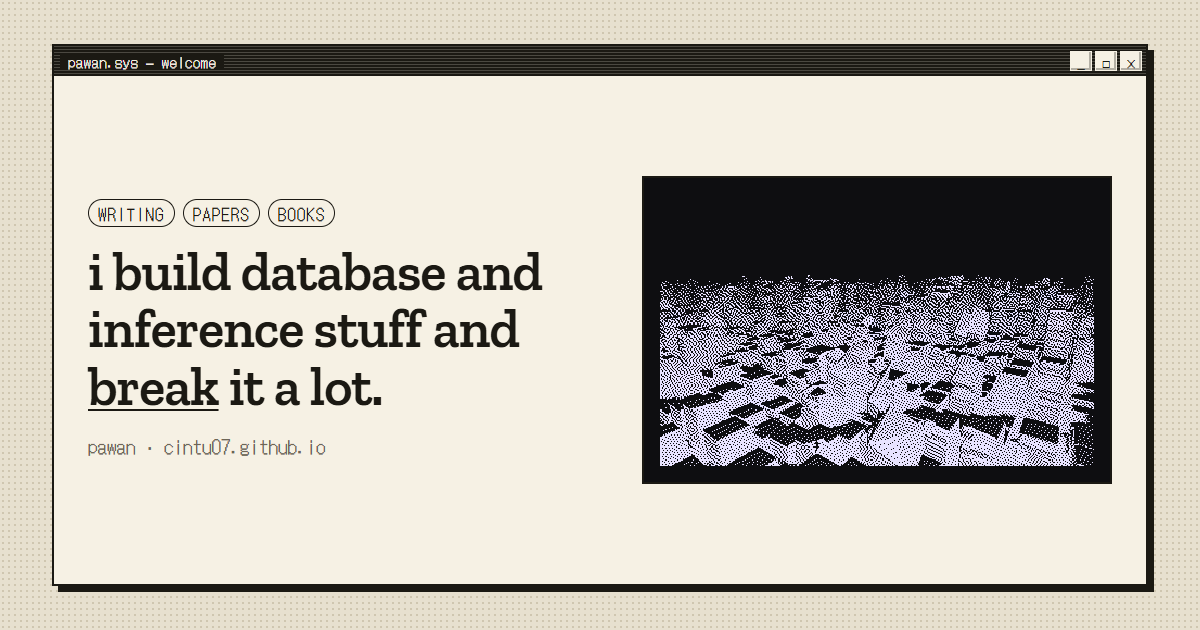
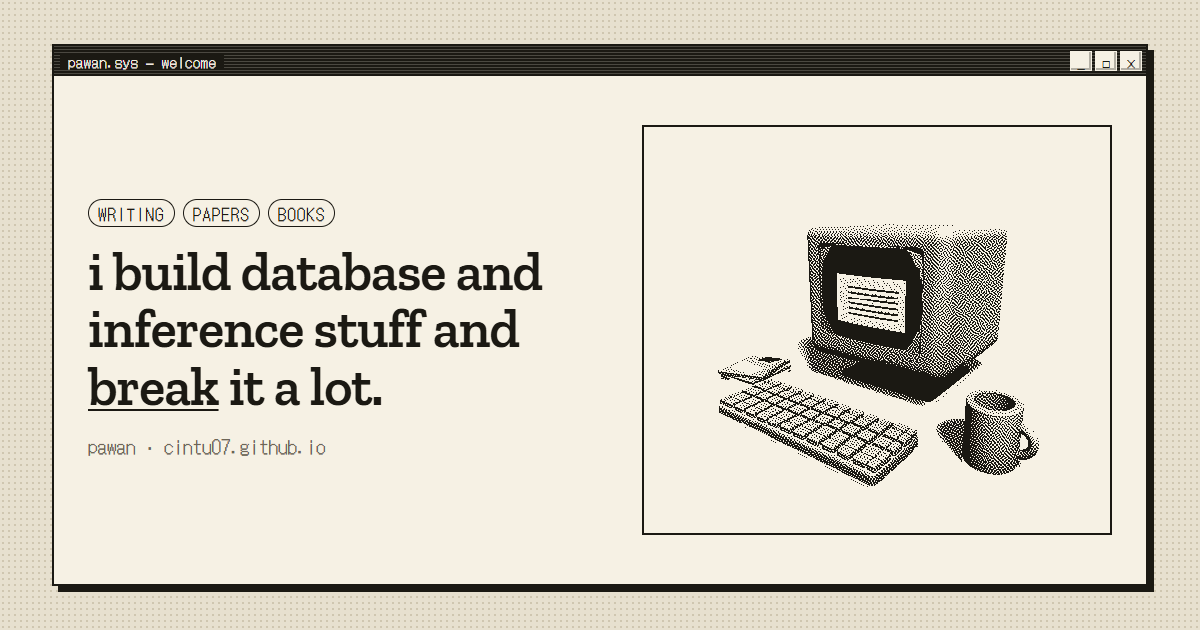
justified text, mid-sized headings, new site preview image

Changed region(s): [[0.5242, 0.2714, 0.925, 0.7841], [0.555, 0.8444, 0.925, 0.8746], [0.555, 0.181, 0.925, 0.2111]]

diff --git a/static/site.css b/static/site.css
@@ -510,3 +510,16 @@ figure.code code { background: none; padding: 0; font: inherit; }
   .intro-pc { grid-template-columns: minmax(0, 34em) minmax(300px, 500px); justify-content: center; gap: clamp(32px, 5vw, 96px); }
   .heroart { max-width: 500px; justify-self: start; }
 }
+
+/* justified text: every line of running text ends at the same right edge, hyphenated so the spacing stays even */
+.prose p, .prose li, .intro-pc .say, .hello .lede, .card .desc, .paper p, .bookrow p, .rows p, .pg .pb, .standfirst {
+  text-align: justify; hyphens: auto; -webkit-hyphens: auto; hyphenate-limit-chars: 6 3 3; text-wrap: wrap;
+}
+/* very narrow columns get rivers when justified; let them run ragged instead */
+@media (max-width: 380px) { .card .desc, .rows p { text-align: left; hyphens: manual; } }
+
+/* mid-sized headings: the title leads, it does not shout */
+.w-reader h1 { font-size: clamp(26px, 2.9vw, 36px); line-height: 1.12; letter-spacing: -.01em; }
+.hello h1 { font-size: clamp(28px, 7.2vw, 40px); line-height: 1.06; letter-spacing: -.015em; }
+.prose h2 { font-size: 24px; }
+.card h3 { font-size: 20px; }
